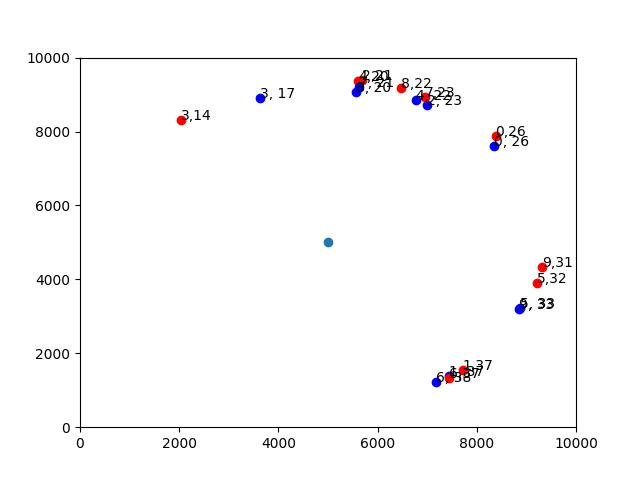
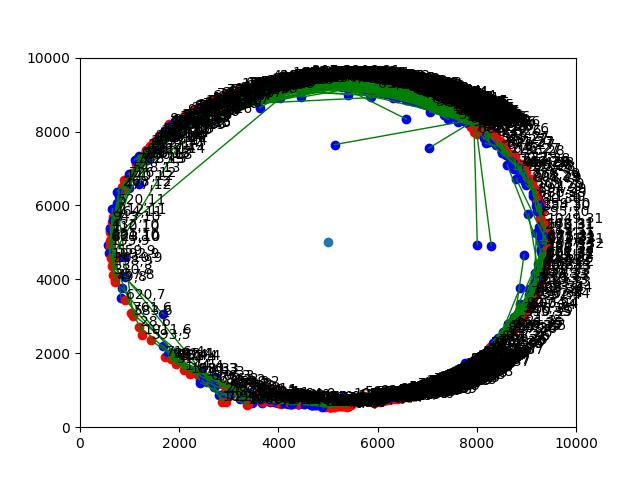
BIAS_predictions filtering updated

Changed region(s): [[0.1562, 0.125, 0.9375, 0.875], [0.5, 0.2812, 0.5938, 0.3125]]

diff --git a/predict_ensemble.py b/predict_ensemble.py
@@ -44,7 +44,8 @@ def predict_regression_plane_ensemble_models(inceptionmodel,
         pred_xy = inceptionmodel(image_inception).cpu().numpy()
         
         pred_class = resnetmodel(image_resnet)
-        most_probable_classes_resnet = torch.argmax(pred_class, dim=0).cpu().numpy()        # Convert predicted coordinates to class
+        most_probable_classes_resnet = torch.argmax(pred_class, dim=1).cpu().numpy()        # Convert predicted coordinates to class
+    
     pred_class_from_coords = regression_to_class(pred_xy,shift=90)
    
     diff = np.abs(most_probable_classes_resnet - pred_class_from_coords)
@@ -56,9 +57,13 @@ def predict_regression_plane_ensemble_models(inceptionmodel,
     agreementIdx = diff <= allowed_class_diff
 
     # Apply the filtering: set pred_xy to None where the class difference is too large
-    filtered_pred_xy = [pred_xy[i] if agreementIdx[i] else None for i in range(len(pred_xy))]
+    filtered_pred_xy = np.array([pred_xy[i] if agreementIdx[i] else [np.nan,np.nan] for i in range(len(pred_xy))])
+    # Create a mask for coordinates that are not None
+    mask = ~np.isnan(np.array(filtered_pred_xy)[:, 0])
 
-    return filtered_pred_xy, pred_class_from_coords, most_probable_classes_resnet
+    # Get indices where the mask is True
+    filtered_pred_indices = np.where(mask)[0]
+    return filtered_pred_xy,filtered_pred_indices, pred_class_from_coords, most_probable_classes_resnet
     
 
 if __name__== "__main__":
@@ -66,7 +71,7 @@ if __name__== "__main__":
     image_folder = "/storage01/grexai/datasets/Regplane_data/2022_v1_zeroPadded_split_with_test/val/images/"
     label_folder = "/storage01/grexai/datasets/Regplane_data/2022_v1_zeroPadded_split_with_test/val/labels2/"
     # models
-    regression_model_path = "./best_model_inception.pth"
+    regression_model_path = "./best_model_inception_L1.pth"
     classification_model_path = "./best_model_resnet50.pth"
     # Device
     device = torch.device("cuda" if torch.cuda.is_available() else "cpu")
@@ -94,8 +99,8 @@ if __name__== "__main__":
     # Run inference
     print("Running predictions...")
     fig, ax = plt.subplots()
-
-    for i,img_path in enumerate(test_images[:10]):
+    error_list = []
+    for i,img_path in enumerate(test_images[:]):
         img_name = os.path.basename(img_path)
         json_path = os.path.join(label_folder, img_name.replace(".jpg", ".json").replace(".png", ".json"))
 
@@ -126,13 +131,31 @@ if __name__== "__main__":
         print(f"  InceptionV3  - Predicted Coordinates: ({int(pred_xy[0])}, {int(pred_xy[1])}),cls {pred_class_from_coords}")
         print(f"  ResNet-50    - Predicted Class: {pred_class}")
         print("-" * 80)
-        
-        ax.scatter(x_gt, y_gt,color = 'red')
-        ax.annotate(f"{i},{gt_class}",(x_gt, y_gt))
+                
+        # Offset for the annotation text
+        offset_x = 20  # Horizontal offset
+        offset_y = 20  # Vertical offset
 
-        ax.scatter(pred_xy[0], pred_xy[1],color = 'blue')
-        ax.annotate(f"{i}, {pred_class_from_coords}",(pred_xy[0], pred_xy[1]))
+        # Draw the line between GT and pred
+        ax.plot([x_gt, pred_xy[0]], [y_gt, pred_xy[1]], color='green', linestyle='-', linewidth=1)
+
+        # Scatter for ground truth point and annotation
+        ax.scatter(x_gt, y_gt, color='red')
+        ax.annotate(f"{i},{gt_class}", (x_gt + offset_x, y_gt + offset_y))
+
+        # Scatter for predicted point and annotation
+        ax.scatter(pred_xy[0], pred_xy[1], color='blue')
+        #ax.annotate(f"{i}, {pred_class_from_coords}", (pred_xy[0] + offset_x, pred_xy[1] + offset_y))
+        gt = np.array([x_gt, y_gt])
+        pred = np.array([pred_xy[0], pred_xy[1]])
+
+        # Calculate the Euclidean distance between the ground truth and predicted coordinates
+        distance = np.linalg.norm(gt - pred)
+        error_list.append(distance)
+        # ax.annotate(f"{i}, {pred_class_from_coords}", (pred_xy[0], pred_xy[1]))
         #plt.scatter(x_gt,y_gt,label)
+    error_list= np.array(error_list)
+    print(f"mean squared error is: {np.sum(error_list)/error_list.shape[0]}")
     plt.xlim(0,10000)
     plt.ylim(0,10000)
     ax.scatter(5000, 5000)

diff --git a/predict_for_BIAS.py b/predict_for_BIAS.py
@@ -7,13 +7,13 @@ from scipy.io import loadmat
 import torch
 import torchvision.transforms as transforms
 from predict_ensemble import load_regression_plane_ensemble_models, predict_regression_plane_ensemble_models
-# Define paths
-
 
 import torch
 import torchvision.transforms as transforms
 
 torch.cuda.set_device(2)
+
+# Define paths
 
 
 def create_gird_image_from_crops(crops):
@@ -67,7 +67,7 @@ def convert_image_lists_to_batched_tensor(crops, target_size=(299, 299), device=
         device = torch.device("cuda" if torch.cuda.is_available() else "cpu")
 
     # Convert NumPy array to PyTorch tensor
-    crops_tensor = torch.tensor(crops, dtype=torch.float32)  # Convert to float tensor
+    crops_tensor = torch.tensor(crops/255.0, dtype=torch.float32)  # Convert to float tensor
 
     # Permute from (batch, H, W, C) -> (batch, C, H, W)
     crops_tensor = crops_tensor.permute(0, 3, 1, 2)  
@@ -86,7 +86,7 @@ def convert_image_lists_to_batched_tensor(crops, target_size=(299, 299), device=
     return crops_tensor
 
 
-regression_model_path = "./best_model_inception.pth"
+regression_model_path = "./best_model_inception_L1.pth"
 classification_model_path = "./best_model_resnet50.pth"
 # acc_folder = "d:/datasets/dvp2_sample_DRP/Proteomics-acc/221123-HK-DVP2-frame-60X-56__2022-11-23T11_30_34-Measurement1/"
 acc_folder = "/NAS/grexa/dvp2_sample_DRP/Proteomics-acc/221123-HK-DVP2-frame-60X-56__2022-11-23T11_30_34-Measurement1/"
@@ -99,8 +99,9 @@ classification_model_input_size = (224, 224)
 allowed_class_diff = 3
 minimum_radius = 3500
 # some BIAS projects exports the images as BGR instead of RGB
-switch_rb_channels = True
-# Device
+# DONT ASK THANKS
+switch_rb_channels = False
+
 device = torch.device("cuda" if torch.cuda.is_available() else "cpu")
 # Load models
 regression_model, classification_model = load_regression_plane_ensemble_models(regression_model_path, classification_model_path, device= device)
@@ -119,7 +120,7 @@ extra_folder = os.path.join(acc_folder, "extra")
 image_files = [f for f in os.listdir(an3_folder) if not f.startswith(".")]
 output_rows = []
 
-for img_idx, file_name in enumerate(image_files):
+for img_idx, file_name in enumerate(image_files[:]):
     print(f"Processing image {img_idx + 1}/{len(image_files)}: {file_name}")
     
     image_path = os.path.join(an3_folder, file_name)
@@ -162,8 +163,8 @@ for img_idx, file_name in enumerate(image_files):
 
     inception_image_tensor = convert_image_lists_to_batched_tensor(crops)
     restnet_image_tensor = convert_image_lists_to_batched_tensor(crops,(224,224))
-    # Placeholder function (replace this with actual prediction logic)
-    preds, pred_classes,_ = predict_regression_plane_ensemble_models(regression_model, 
+    
+    preds, agreement_indices, pred_classes,_ = predict_regression_plane_ensemble_models(regression_model, 
                                                                     classification_model,
                                                                     inception_image_tensor,
                                                                     restnet_image_tensor)

diff --git a/regressionplane_utils.py b/regressionplane_utils.py
@@ -1,13 +1,60 @@
 import numpy as np
 
+import numpy as np
 
-def regplane_to_polar(x, y, center=(5000, 5000), shift=0):
+def regplane_to_polar2(x_coords, y_coords, regplane_size=10000, fix_rotation=True):
+    """
+    Convert regression plane coordinates to polar coordinates.
+    
+    The Euclidean space is used for determining the rotation,
+    i.e., the rotation direction is counterclockwise and rotated by -90 degrees.
+    
+    Parameters:
+        x_coords (array-like): x coordinates from the regression plane.
+        y_coords (array-like): y coordinates from the regression plane.
+        regplane_size (int, optional): Size of the square regression plane in pixels (default: 10000).
+        fix_rotation (bool, optional): Whether to apply regression plane conception rotation and direction (default: True).
+    
+    Returns:
+        theta (numpy.ndarray): Rotation in degrees.
+        radius (numpy.ndarray): Radius in pixels.
+    """
+    x_coords = np.asarray(x_coords, dtype=np.float64).flatten()
+    y_coords = np.asarray(y_coords, dtype=np.float64).flatten()
+    
+    # Center the coordinates around (regplane_size / 2, regplane_size / 2)
+    p = np.column_stack((x_coords, y_coords)) - (regplane_size / 2)
+    
+    # Reference x-axis vector
+    X = np.array([regplane_size, 0], dtype=np.float64)
+    
+    # Compute theta using acos (equivalent to MATLAB's acosd)
+    dot_products = np.sum(X * p, axis=1)
+    norms_X = np.linalg.norm(X)
+    norms_p = np.linalg.norm(p, axis=1)
+    
+    theta = np.degrees(np.arccos(dot_products / (norms_X * norms_p)))
+    
+    # Adjust for points below the x-axis (y < 0)
+    theta[p[:, 1] < 0] = 360 - theta[p[:, 1] < 0]
+    
+    # Compute radius
+    radius = np.sqrt(np.sum(p**2, axis=1))
+
+    if fix_rotation:
+        theta = theta + 90
+        theta = -theta
+        theta = theta % 360
+
+    return theta, radius
+
+def regplane_to_polar(x, y, center=(5000, 5000)):
     """Convert Cartesian coordinates to polar (theta in degrees), considering a center offset and rotation."""
     x_shifted = x - center[0]
     y_shifted = y - center[1]
 
     # Convert to polar coordinates and apply the shift (rotation)
-    theta = (np.degrees(np.arctan2(y_shifted, x_shifted)) + shift) % 360
+    theta = (np.degrees(np.arctan2(y_shifted, x_shifted)))
     r = np.sqrt(x_shifted ** 2 + y_shifted ** 2)
 
     return theta, r
@@ -29,10 +76,10 @@ def regression_to_class(coords, center=(5000, 5000), shift=0):
     class_cats = []
 
     for coord in coords:
-        theta, r = regplane_to_polar(coord[0], coord[1], center, shift=shift)  # Apply 90° rotation
-
+        theta, r = regplane_to_polar2(coord[0], coord[1])  # Apply 90° rotation
+        
         if 15 <= theta <= 345:  # Mitotic classes
-            class_cat = 40-int((theta - 15) / split_deg+1)  # Reverse the class order
+            class_cat = int((theta - 15) / split_deg+1)  # Reverse the class order
         else:  # Interphase class
             class_cat = 0  # Interphase
 

diff --git a/train_resnet50.py b/train_resnet50.py
@@ -20,7 +20,7 @@ train_annotation_folder = os.path.join(base_dir, "trainBalAug_v2_2", "labels2")
 # train_annotation_folder = os.path.join(base_dir,"train", "labels2")
 val_image_folder = os.path.join(base_dir, "val", "images")
 val_annotation_folder = os.path.join(base_dir, "val", "labels2")
-num_epochs=0
+num_epochs=100
 
 # Inference function and save predictions
 def predict_and_save(model, image_folder, annotation_folder, output_json="predictions.json"):
@@ -115,7 +115,7 @@ transform_val = transforms.Compose([
 
 # Create dataset and dataloaders
 train_dataset = MitoticDataset(train_image_folder, train_annotation_folder, transform=transform)
-val_dataset = MitoticDataset(val_image_folder, val_annotation_folder, transform=transform)
+val_dataset = MitoticDataset(val_image_folder, val_annotation_folder, transform=transform_val)
 
 train_loader = DataLoader(train_dataset, batch_size=256, shuffle=True)
 val_loader = DataLoader(val_dataset, batch_size=256, shuffle=False)
